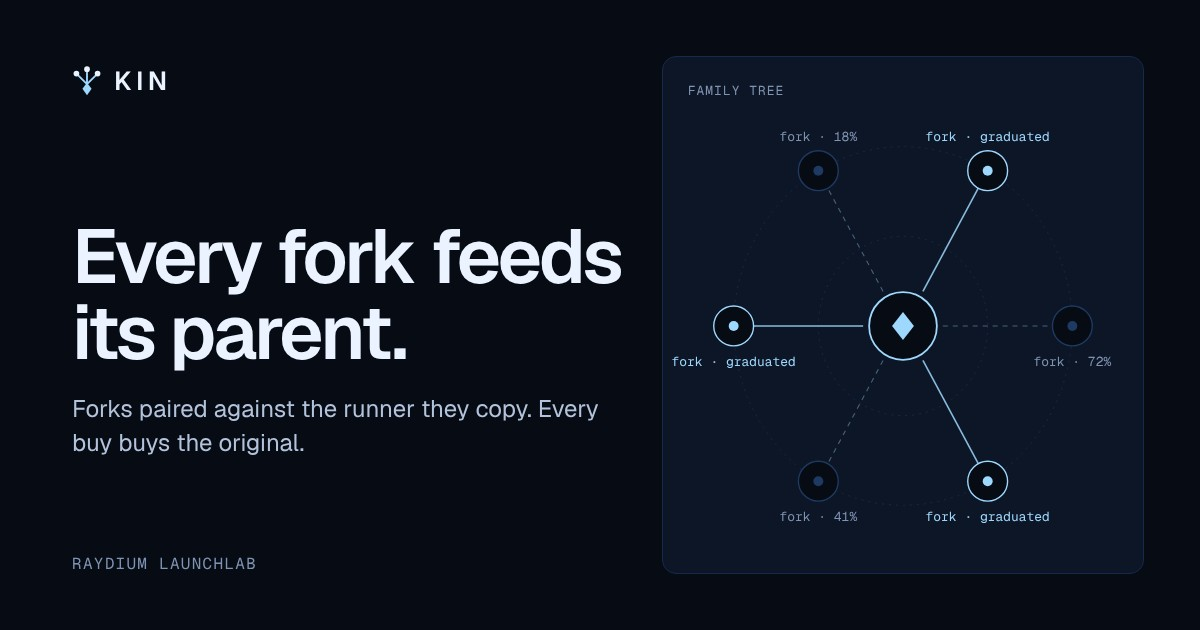
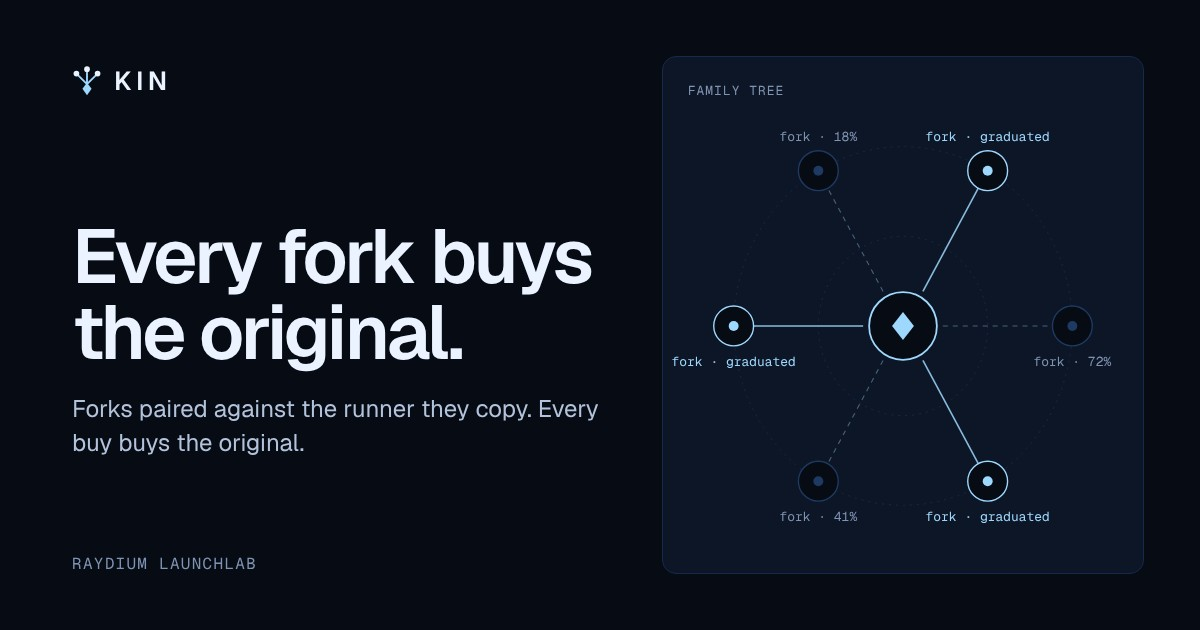
New tagline: Every fork buys the original.
Claude-Session: https://claude.ai/code/session_011kkDhDHRMPkNXtFifgBPaA

Changed region(s): [[0.0617, 0.4825, 0.4008, 0.6032], [0.3392, 0.3619, 0.5242, 0.4825]]

diff --git a/index.html b/index.html
@@ -3,10 +3,10 @@
 <head>
 <meta charset="utf-8">
 <meta name="viewport" content="width=device-width, initial-scale=1">
-<title>KIN · Every fork feeds its parent.</title>
+<title>KIN · Every fork buys the original.</title>
 <meta name="description" content="A Raydium LaunchLab launchpad for forks. Every fork is paired against the runner it copies, so every buy buys the original and graduation locks it forever.">
 <meta name="theme-color" content="#060B14">
-<meta property="og:title" content="KIN · Every fork feeds its parent.">
+<meta property="og:title" content="KIN · Every fork buys the original.">
 <meta property="og:description" content="Forks paired against the runner they copy. Every buy buys the original. Graduation locks it on Raydium.">
 <meta property="og:type" content="website">
 <meta property="og:image" content="/og.jpg"><meta name="twitter:card" content="summary_large_image"><meta name="twitter:image" content="/og.jpg">
@@ -288,7 +288,7 @@ footer{margin-top:110px;border-top:1px solid var(--line)}
 <main id="top" class="wrap">
   <section class="hero">
     <div>
-      <h1>Every fork feeds its parent.</h1>
+      <h1>Every fork buys the original.</h1>
       <p>Forks on KIN are paired against the runner they copy. Every buy buys the original, and graduation locks it on Raydium.</p>
       <div class="btns"><a class="btn pri" href="#launch">Launch a fork</a><a class="btn" href="#explore">Browse forks</a></div>
     </div>

diff --git a/docs.html b/docs.html
@@ -3,7 +3,7 @@
 <head>
 <meta charset="utf-8">
 <meta name="viewport" content="width=device-width, initial-scale=1">
-<title>KIN Docs · How forks feed their parent</title>
+<title>KIN Docs · How every fork buys the original</title>
 <meta name="description" content="How KIN works: forks paired against their parent on Raydium LaunchLab, graduation and locking, fees, risks and FAQ.">
 <meta name="theme-color" content="#060B14">
 <meta property="og:title" content="KIN Docs"><meta property="og:image" content="/og.jpg"><meta name="twitter:card" content="summary_large_image">
@@ -60,7 +60,7 @@ footer{border-top:1px solid var(--line);padding:24px 0 36px;font-size:12.5px;col
 <div class="wrap layout">
   <nav class="toc" aria-label="On this page"><span>Docs</span><a href="#overview">Overview</a><a href="#pairing">How pairing works</a><a href="#graduation">Graduation and locking</a><a href="#fees">Fees</a><a href="#launching">Launching a fork</a><a href="#risks">Risks</a><a href="#faq">FAQ</a><a href="#disclaimer">Disclaimer</a></nav>
   <article>
-    <h1 id="overview">Every fork feeds its parent.</h1>
+    <h1 id="overview">Every fork buys the original.</h1>
     <p class="lead">KIN is a launchpad on Raydium LaunchLab for forks of runners. A fork is paired against its parent’s token instead of SOL, so buying the fork buys the parent, and graduation locks it.</p>
 
     <h2 id="pairing">How pairing works</h2>

diff --git a/README.md b/README.md
@@ -1,6 +1,6 @@
 # KIN ($KIN) – sajten (v2, trading-app-design)
 
-"Every fork feeds its parent." En launchpad på Raydium LaunchLab där varje fork paras mot sin parents token i stället för SOL.
+"Every fork buys the original." En launchpad på Raydium LaunchLab där varje fork paras mot sin parents token i stället för SOL.
 
 ## Filer
 
